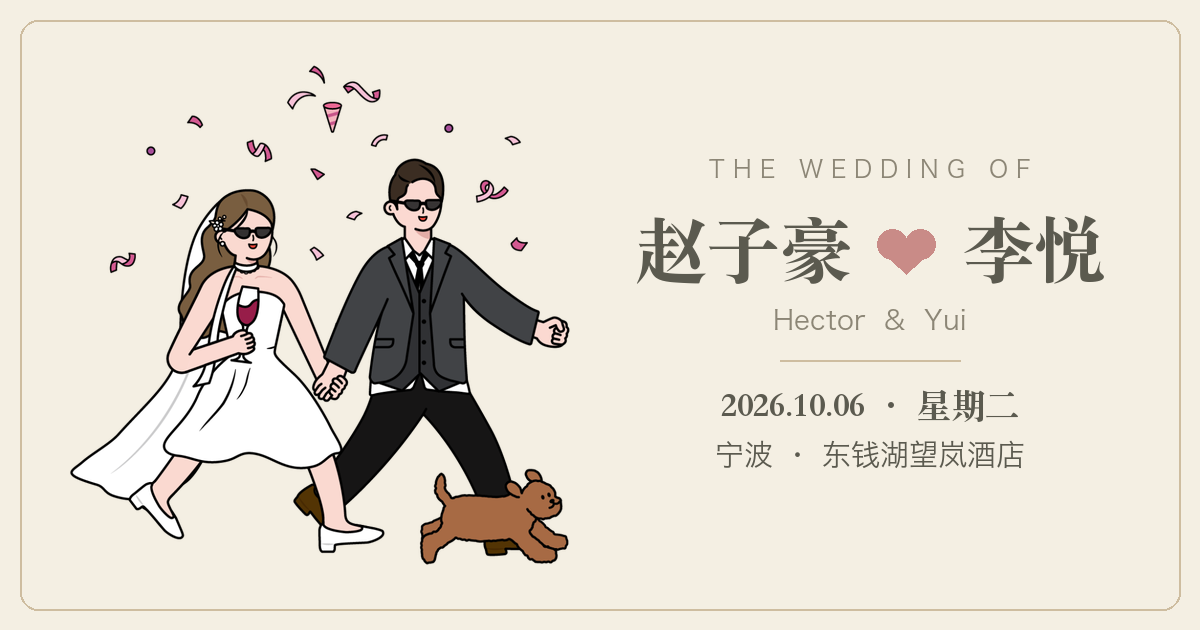
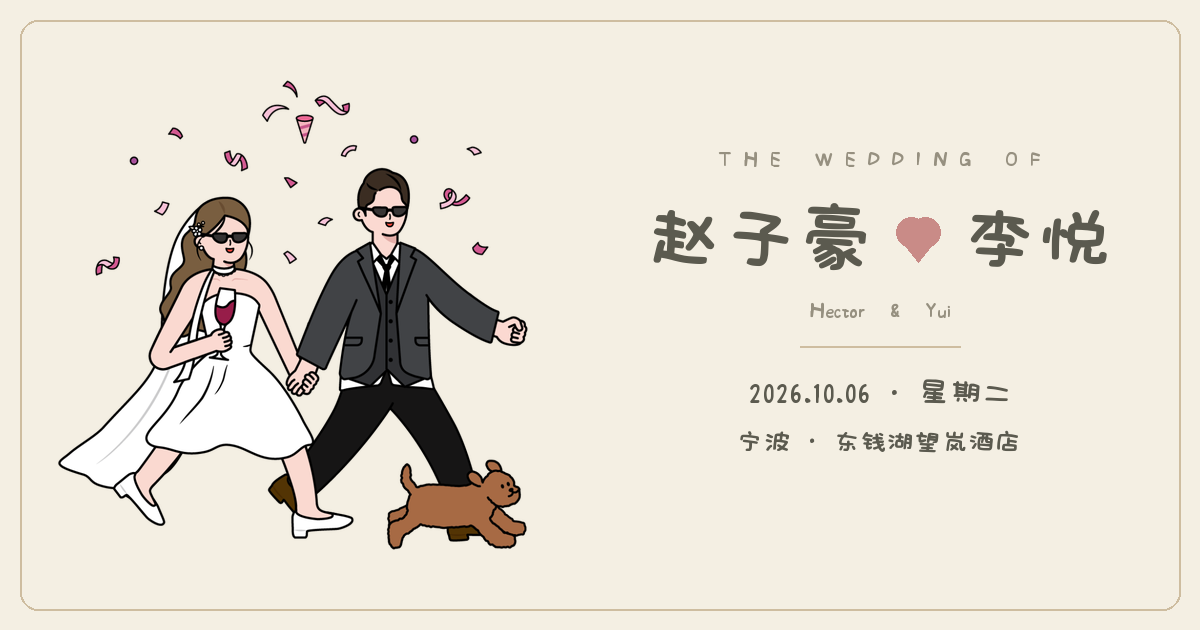
update share preview card (new font design) + point OG tags to custom domain
- regenerate og-cover.png with chosen font
- og:url/og:image/twitter:image -> https://hector-yui-wedding.com (v=2)

diff --git a/index.html b/index.html
@@ -9,11 +9,11 @@
 <meta property="og:type" content="website">
 <meta property="og:site_name" content="Wedding Guide">
 <meta property="og:locale" content="zh_CN">
-<meta property="og:url" content="https://liyue34673.github.io/pancakes/">
+<meta property="og:url" content="https://hector-yui-wedding.com/">
 <meta property="og:title" content="赵子豪 ❤ 李悦 · 婚礼邀请">
 <meta property="og:description" content="2026.10.06 星期二 · 宁波 东钱湖望岚酒店 —— 诚挚邀请你来见证我们的婚礼。">
-<meta property="og:image" content="https://liyue34673.github.io/pancakes/assets/img/og-cover.png?v=1">
-<meta property="og:image:secure_url" content="https://liyue34673.github.io/pancakes/assets/img/og-cover.png?v=1">
+<meta property="og:image" content="https://hector-yui-wedding.com/assets/img/og-cover.png?v=2">
+<meta property="og:image:secure_url" content="https://hector-yui-wedding.com/assets/img/og-cover.png?v=2">
 <meta property="og:image:type" content="image/png">
 <meta property="og:image:width" content="1200">
 <meta property="og:image:height" content="630">
@@ -21,7 +21,7 @@
 <meta name="twitter:card" content="summary_large_image">
 <meta name="twitter:title" content="赵子豪 ❤ 李悦 · 婚礼邀请">
 <meta name="twitter:description" content="2026.10.06 星期二 · 宁波 东钱湖望岚酒店 —— 诚挚邀请你来见证我们的婚礼。">
-<meta name="twitter:image" content="https://liyue34673.github.io/pancakes/assets/img/og-cover.png?v=1">
+<meta name="twitter:image" content="https://hector-yui-wedding.com/assets/img/og-cover.png?v=2">
 <style>
 /* self-hosted, subset fonts (no external CDN — loads fine in mainland China) */
 @font-face{font-family:"Space Mono";font-style:normal;font-weight:400;font-display:swap;src:url(assets/fonts/SpaceMono-Regular.woff2) format("woff2")}
